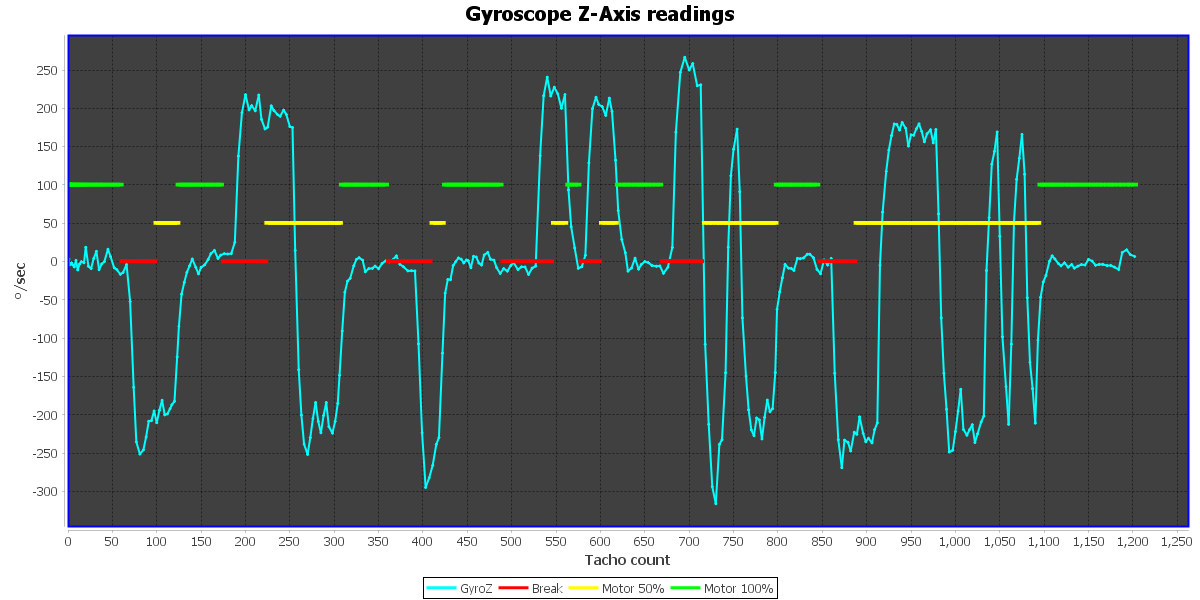
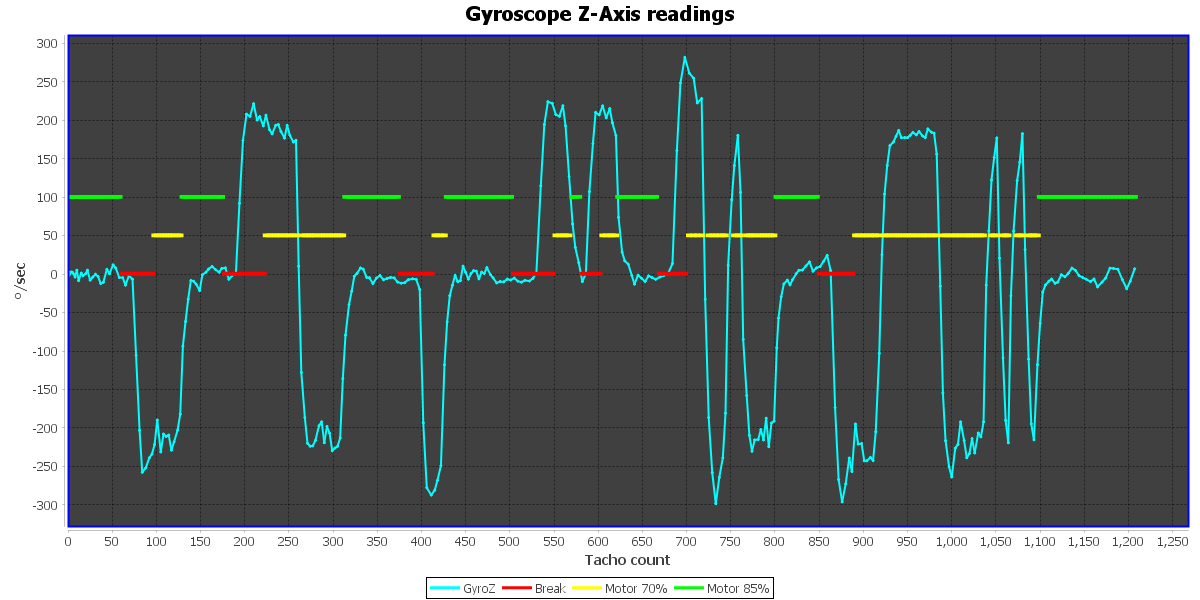
Small speed adjustment changes

diff --git a/SEPI4_Java/src/Main.java b/SEPI4_Java/src/Main.java
@@ -150,8 +150,8 @@ public class Main {
 	}
 
 	public static int[] calculateRacePlan(double[][] trackData) {
-		final double NORMAL_CURVE_BREAKING_POINT_CONSTANT = 0.8;
-		final double SHARP_CURVE_BREAKING_POINT_CONSTANT = 0.65;
+		final double NORMAL_CURVE_BREAKING_POINT_CONSTANT = 0.75;
+		final double SHARP_CURVE_BREAKING_POINT_CONSTANT = 0.75;
 
 		int raceCounter = 0;
 		int breakPointsCounter = 0;
@@ -184,7 +184,7 @@ public class Main {
 				raceData[raceCounter + 1] = 85;
 				raceData[raceCounter] = tacho[i];
 			} else {
-				raceData[raceCounter + 1] = 65;
+				raceData[raceCounter + 1] = 70;
 				raceData[raceCounter] = tacho[i];
 			}
 			raceCounter = raceCounter + 2;
@@ -257,7 +257,7 @@ public class Main {
 					 * of the curve and add them to array.
 					 */
 					for (int j = straightStart[1]; j <= straightEnd[1]
-							+ ((curveEnd[1] - straightEnd[1]) / 2); j += 2) {
+							+ ((curveEnd[1] - straightEnd[1]) / 2.5); j += 2) {
 						if (raceData[j - 1] > breakPoint) {
 							breakPoints[breakPointsCounter] = j;
 							breakPointsCounter++;

diff --git a/SEPI4_Java/src/JChartGraph.java b/SEPI4_Java/src/JChartGraph.java
@@ -89,7 +89,7 @@ public class JChartGraph extends JFrame {
 		renderer.setSeriesPaint(0, Color.CYAN);
 		
 		for (int i = 0; i < raceData.length-1; i+=2) {
-			if(raceData[i+1] == 65)
+			if(raceData[i+1] == 70)
 			{
 				((XYPlot) chart.getPlot()).addAnnotation(new XYShapeAnnotation(new Rectangle2D.Double(raceData[i]-2, 50, 4, 1),new BasicStroke(3.0f),Color.YELLOW));
 			}
@@ -125,8 +125,8 @@ public class JChartGraph extends JFrame {
 		Shape shape = new Rectangle(30, 3);
 		chartLegend.add(new LegendItem("GyroZ", null, null, null, shape, Color.CYAN));
 		chartLegend.add(new LegendItem("Break", null, null, null, shape, Color.RED));
-		chartLegend.add(new LegendItem("Motor 50%", null, null, null, shape, Color.YELLOW));
-		chartLegend.add(new LegendItem("Motor 100%", null, null, null, shape, Color.GREEN));
+		chartLegend.add(new LegendItem("Motor 70%", null, null, null, shape, Color.YELLOW));
+		chartLegend.add(new LegendItem("Motor 85%", null, null, null, shape, Color.GREEN));
 		plot.setFixedLegendItems(chartLegend);
 	}
 }
